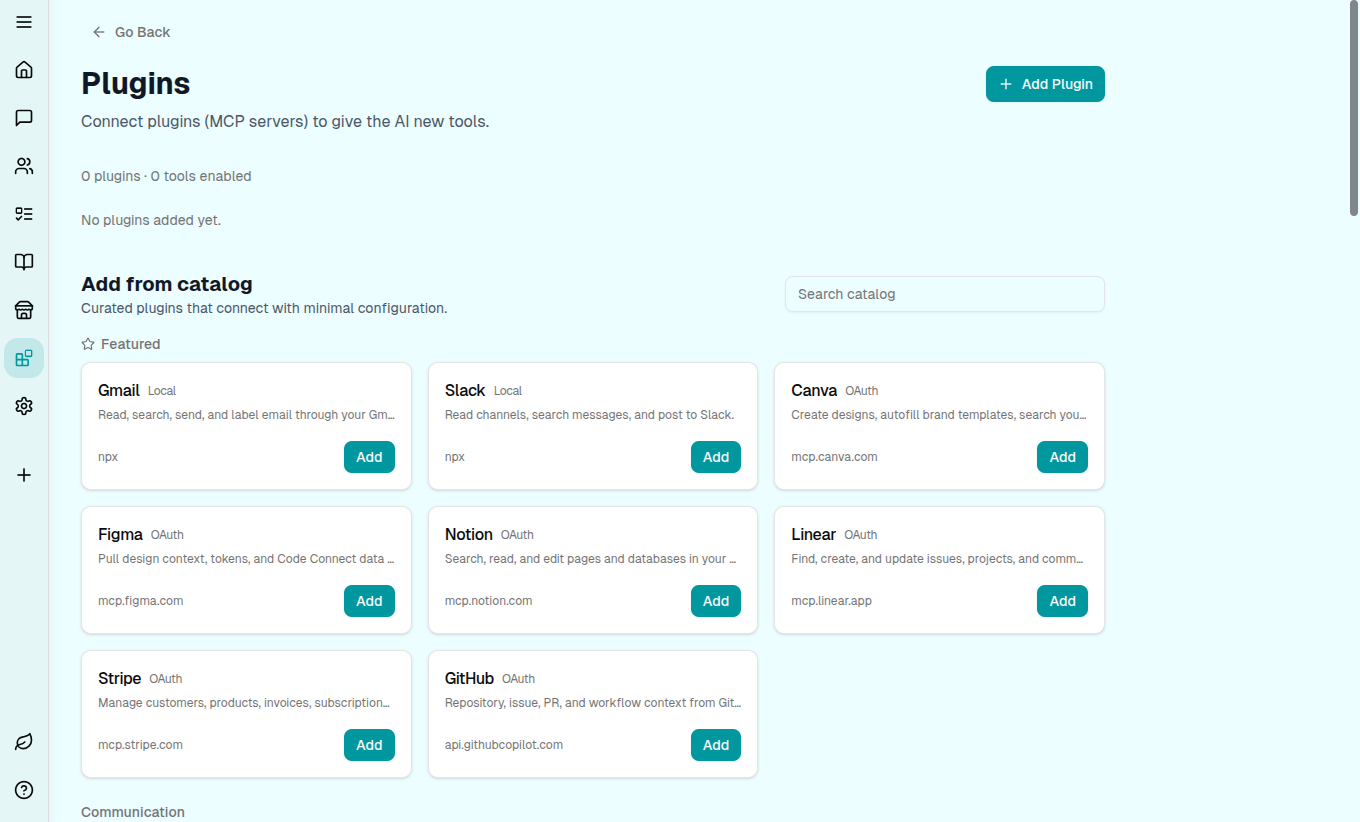
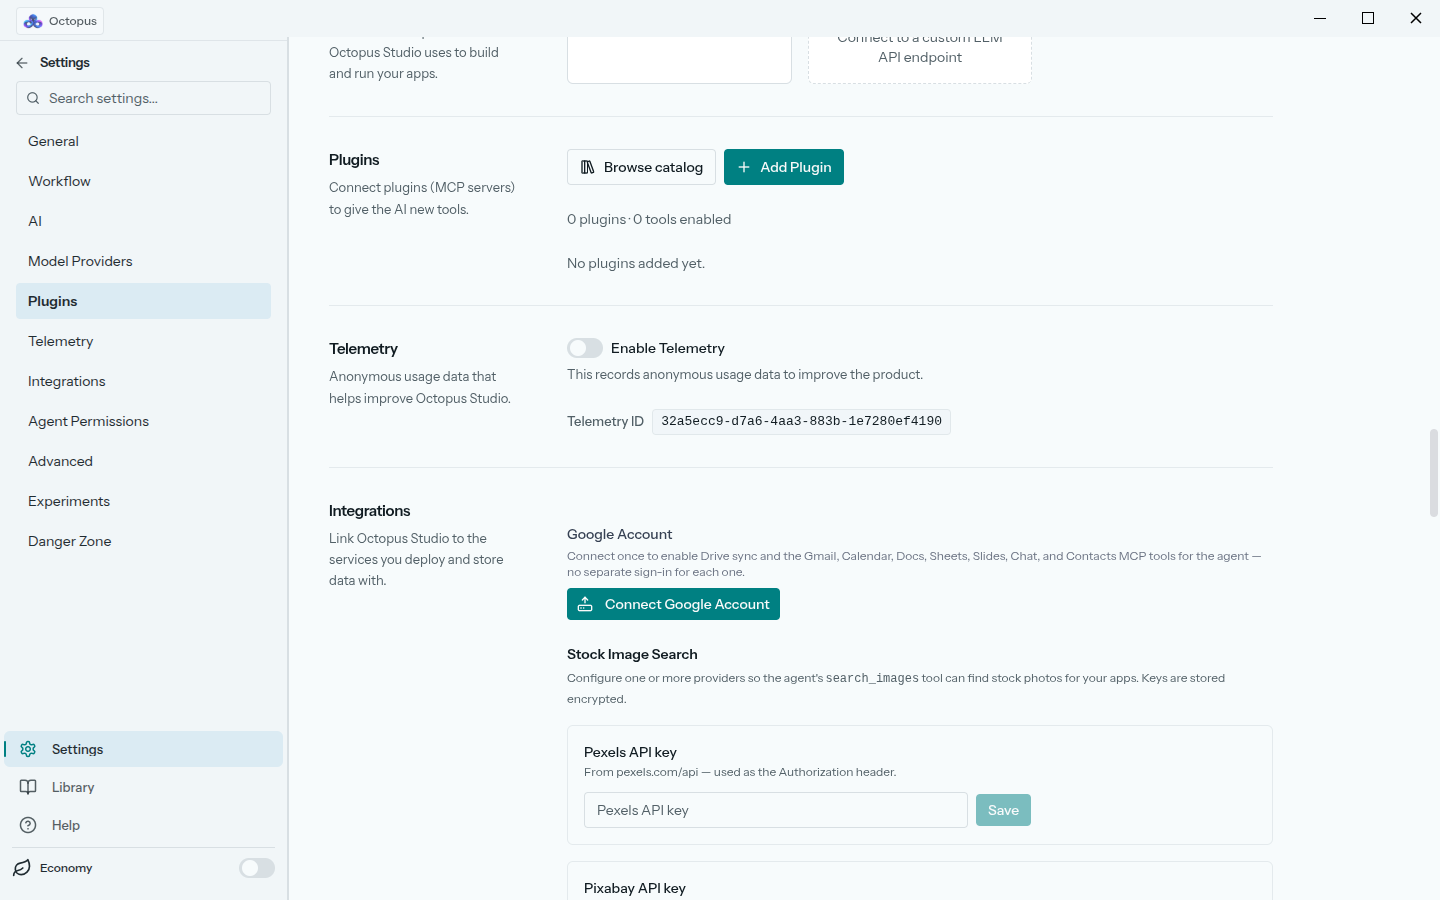
Refresh product screenshots

diff --git a/README.md b/README.md
@@ -57,15 +57,15 @@ No single workflow has to use every arm. The point is that your next step is alr
 
 ## See it in action
 
-### Automation that returns to real projects
+### One workspace for projects, chats, tasks, and agents
 
-Save a prompt, choose its project, tools, model, and cadence, then inspect each run.
+Start research, document, automation, data, media, or development work from the same project surface.
 
 <p align="center">
-  <img src="docs/assets/screenshots/tasks.png" alt="Octopus Studio scheduled tasks" width="900" />
+  <img src="docs/assets/screenshots/workspace.png" alt="Octopus Studio project and automation workspace" width="900" />
 </p>
 
-### MCP tools without hand-editing configuration
+### MCP tools with visible controls
 
 Browse the catalog, connect trusted services, and give the agent only the tools the workflow needs.
 
@@ -73,12 +73,20 @@ Browse the catalog, connect trusted services, and give the agent only the tools 
   <img src="docs/assets/screenshots/plugins.png" alt="Octopus Studio MCP plugin catalog" width="900" />
 </p>
 
-### Multiple perspectives, one shared objective
+### Reusable skills instead of repeated instructions
 
-Dispatch role-based workers for structured review and coordinated work in a shared project.
+Save focused operating instructions for document design, spreadsheets, presentations, and repeatable workflows.
 
 <p align="center">
-  <img src="docs/assets/screenshots/workers.png" alt="Octopus Studio automated workers panel" width="900" />
+  <img src="docs/assets/screenshots/skills.png" alt="Octopus Studio reusable agent skills library" width="900" />
+</p>
+
+### Built-in media and asset workspace
+
+Search, generate, organize, and preview project media without bouncing between disconnected tools.
+
+<p align="center">
+  <img src="docs/assets/screenshots/media.png" alt="Octopus Studio in-app media library" width="900" />
 </p>
 
 ## What people can do with it
